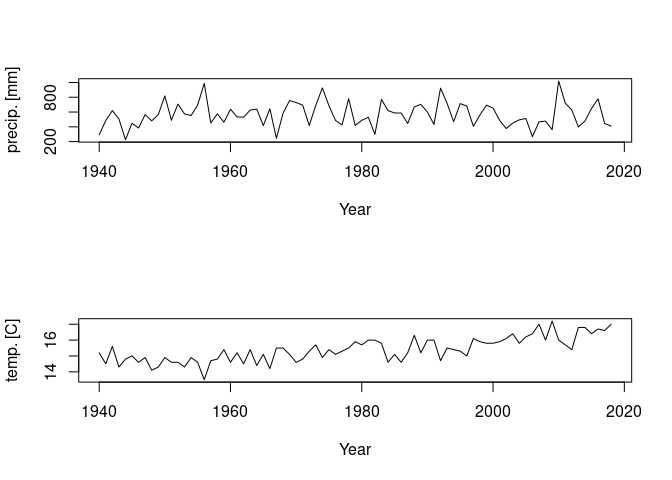
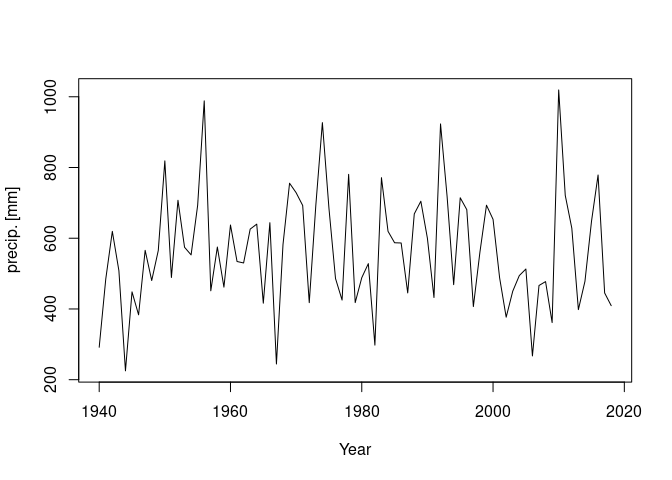
Removed unnecessary par(mfrow=c(2,1)) from README and vignette

diff --git a/README.md b/README.md
@@ -164,11 +164,13 @@ precipitation into pitch (so that wet years correspond to high-pitched
 notes) and temperature to loudness (so that warm years correspond to
 loud notes). Let’s see how this can be done.
 
-    par(mfrow=c(2,1))
     plot(WaggaWagga$Year,WaggaWagga$Precipitation,type='l',xlab='Year',ylab='precip. [mm]')
-    plot(WaggaWagga$Year,WaggaWagga$Temperature,type='l',xlab='Year',ylab='temp. [C]')
 
 ![](man/figures/README-unnamed-chunk-15-1.png)
+
+    plot(WaggaWagga$Year,WaggaWagga$Temperature,type='l',xlab='Year',ylab='temp. [C]')
+
+![](man/figures/README-unnamed-chunk-16-1.png)
 
 ## Sonification of the Wagga Wagga dataset
 
@@ -184,7 +186,7 @@ not detailled here, there are options to use a nonlinear mapping, see
     # Check the relation is just a simple linear interpolation
     plot(WaggaWagga$Temperature,llist,pch=19,col=rgb(0,0,0,0.2),xlab='Temp. [C]',ylab='loudness')
 
-![](man/figures/README-unnamed-chunk-16-1.png)
+![](man/figures/README-unnamed-chunk-17-1.png)
 
 We now perform the mapping of precipitation to pitch. This is a bit
 trickier because instead of doing a continuous mapping, we want to map
